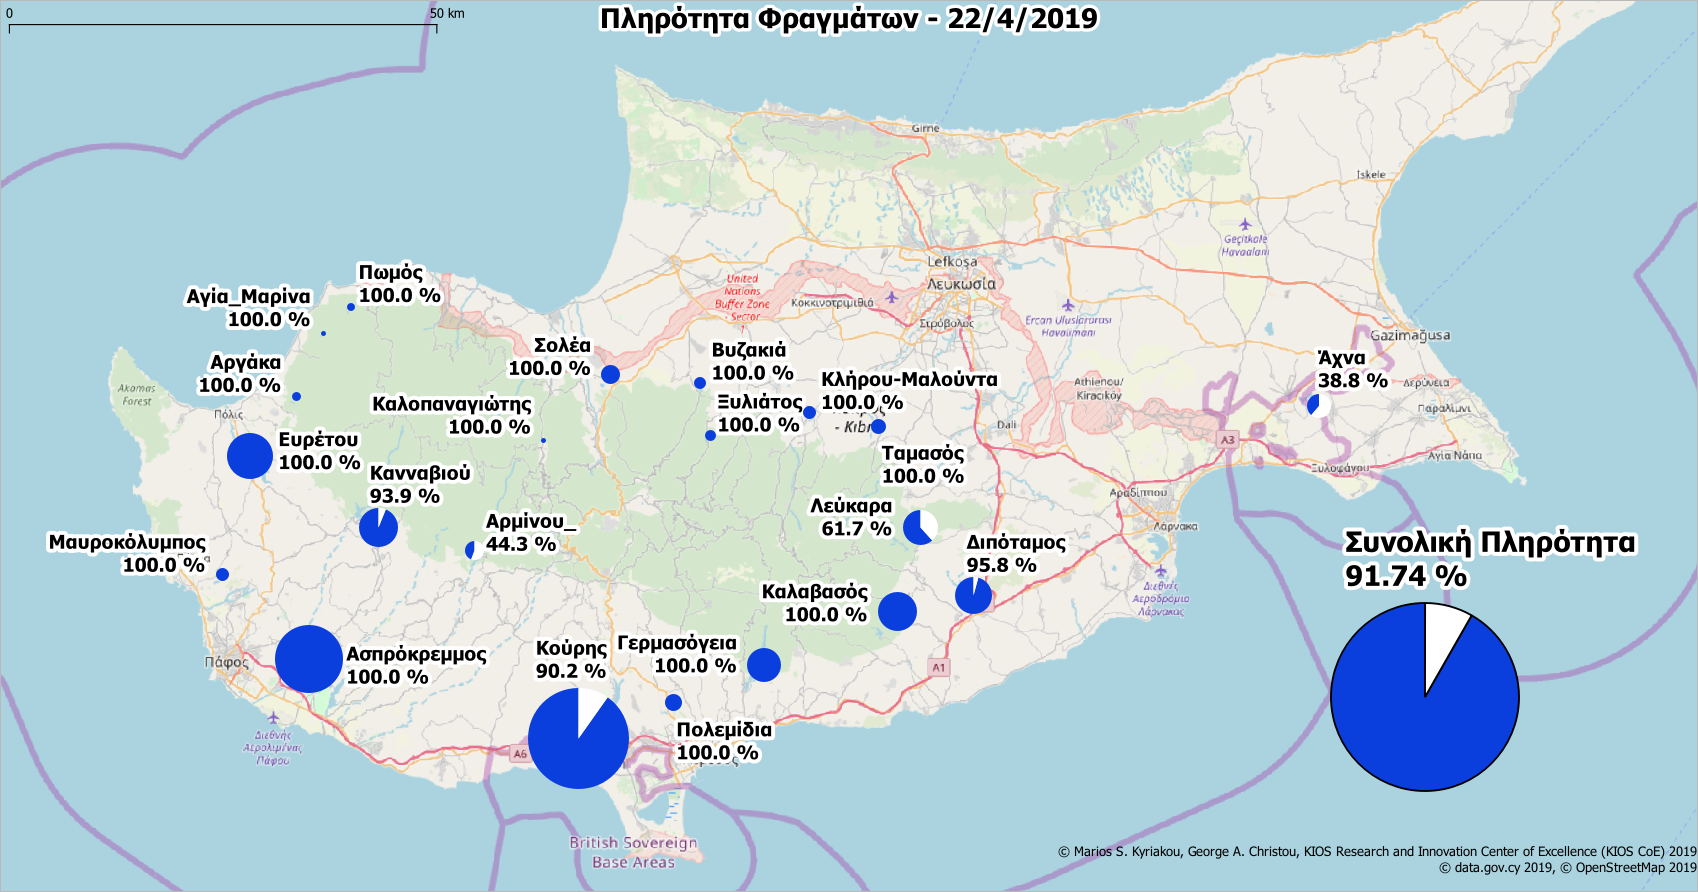
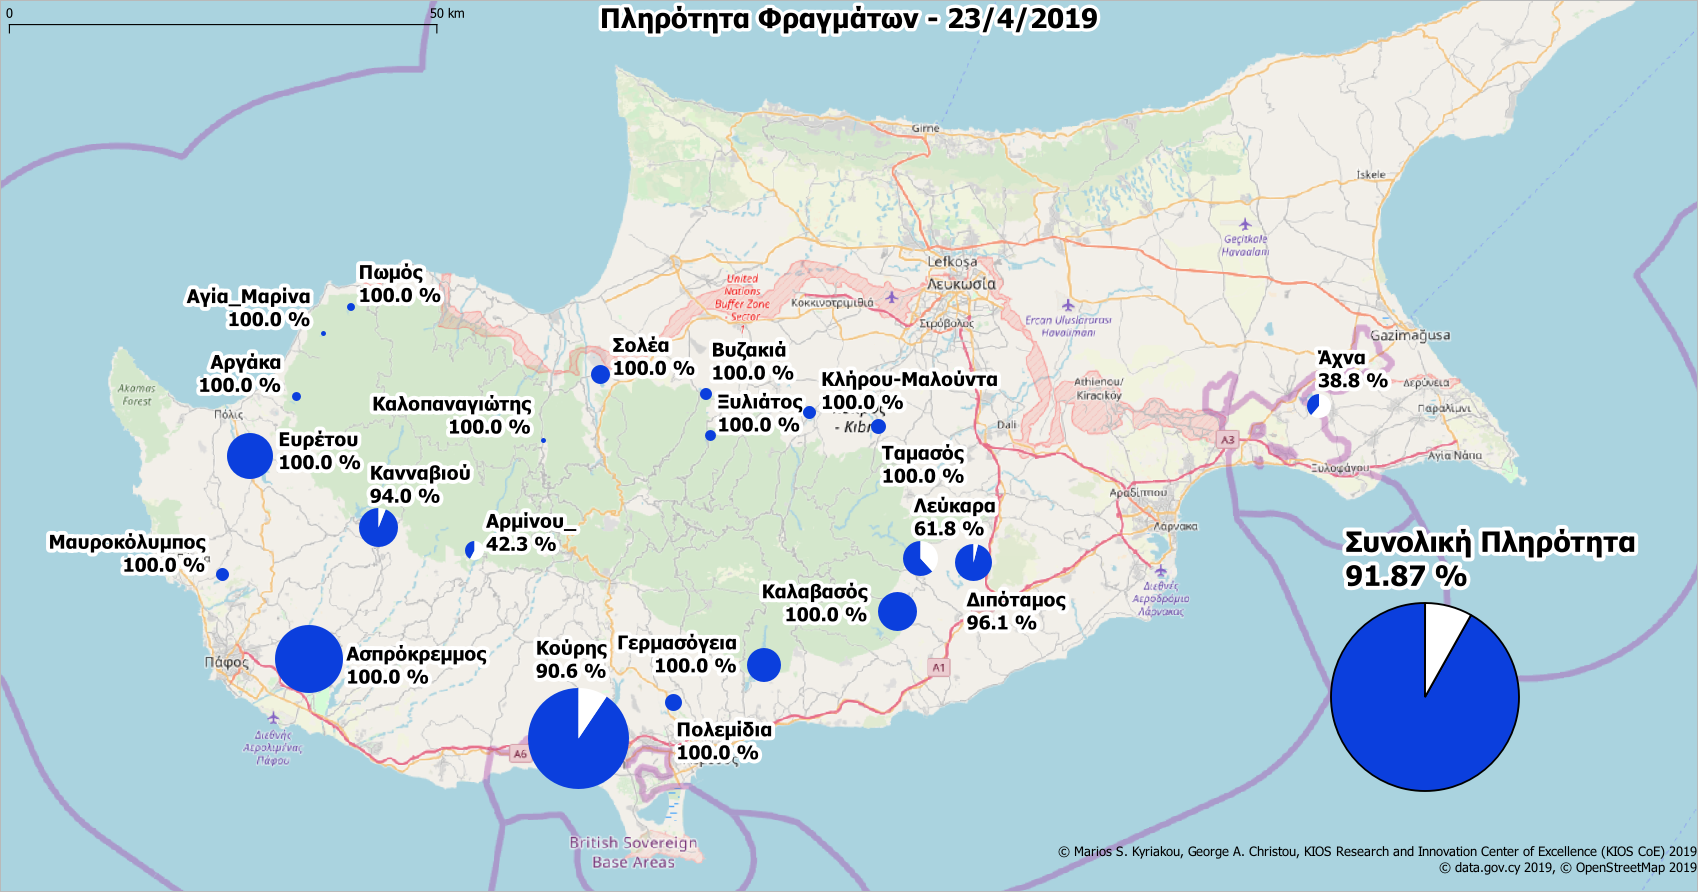
update

diff --git a/dams.html b/dams.html
@@ -11,7 +11,7 @@
          1px  1px 7px WHITE;
     }
     }
-    </style><p><b>Ημερομηνία ανανέωσης δεδομένων: 22/4/2019<p><font color="#0000FF">Η συνολική πληρότητα στα φράγματα είναι 91.74%</font>.<p>Υπάρχουν συνολικά <font color="#0000FF">15</font> φράγματα με πληρότητα <font color="#0000FF">100%</font>.<p>Υπάρχουν <font color="#0000FF">19</font> φράγματα με πληρότητα πάνω από <font color="#0000FF">50%</font>.</b><p><b>Υπάρχουν δεδομένα για 21 φράγματα. Συνολικά υπάρχουν 108 φράγματα. <b><p><p><p>* Ε.Κ.Μ. - Εκατομμύρια Kυβικά  Mέτρα.<table width="444">
+    </style><p><b>Ημερομηνία ανανέωσης δεδομένων: 23/4/2019<p><font color="#0000FF">Η συνολική πληρότητα στα φράγματα είναι 91.87%</font>.<p>Υπάρχουν συνολικά <font color="#0000FF">15</font> φράγματα με πληρότητα <font color="#0000FF">100%</font>.<p>Υπάρχουν <font color="#0000FF">19</font> φράγματα με πληρότητα πάνω από <font color="#0000FF">50%</font>.</b><p><b>Υπάρχουν δεδομένα για 21 φράγματα. Συνολικά υπάρχουν 108 φράγματα. <b><p><p><p>* Ε.Κ.Μ. - Εκατομμύρια Kυβικά  Mέτρα.<table width="444">
     <tbody>
     <tr>
     <th width="2"><b></b></th>
@@ -19,7 +19,7 @@
     <th width="60"><b>Χωρητικότητα (Ε.Κ.Μ.)</b></th>
     <th width="60"><b>Σημερινή (Ε.Κ.Μ.)</b></th>
     <th width="60"><b> Σημερινή Πληρότητα (%)</b></th>
-    </tr><tr><td bgcolor=#1A9641 class=border-white>1</td><td bgcolor=#1A9641 class=border-white>Κούρης</td><td bgcolor=#1A9641 class=border-white>115.0</td><td bgcolor=#1A9641 class=border-white>103.787</td><td bgcolor=#1A9641 class=border-white>90.2</td></tr><tr><tr><td bgcolor=#1A9641 class=border-white>2</td><td bgcolor=#1A9641 class=border-white>Ασπρόκρεμμος</td><td bgcolor=#1A9641 class=border-white>52.375</td><td bgcolor=#1A9641 class=border-white>52.375</td><td bgcolor=#1A9641 class=border-white>100.0</td></tr><tr><tr><td bgcolor=#1A9641 class=border-white>3</td><td bgcolor=#1A9641 class=border-white>Ευρέτου</td><td bgcolor=#1A9641 class=border-white>24.0</td><td bgcolor=#1A9641 class=border-white>24.0</td><td bgcolor=#1A9641 class=border-white>100.0</td></tr><tr><tr><td bgcolor=#1A9641 class=border-white>4</td><td bgcolor=#1A9641 class=border-white>Κανναβιού</td><td bgcolor=#1A9641 class=border-white>17.168</td><td bgcolor=#1A9641 class=border-white>16.115</td><td bgcolor=#1A9641 class=border-white>93.9</td></tr><tr><tr><td bgcolor=#1A9641 class=border-white>5</td><td bgcolor=#1A9641 class=border-white>Καλαβασός</td><td bgcolor=#1A9641 class=border-white>17.1</td><td bgcolor=#1A9641 class=border-white>17.1</td><td bgcolor=#1A9641 class=border-white>100.0</td></tr><tr><tr><td bgcolor=#1A9641 class=border-white>6</td><td bgcolor=#1A9641 class=border-white>Διπόταμος</td><td bgcolor=#1A9641 class=border-white>15.5</td><td bgcolor=#1A9641 class=border-white>14.854</td><td bgcolor=#1A9641 class=border-white>95.8</td></tr><tr><tr><td bgcolor=#A6D96A class=border-white>7</td><td bgcolor=#A6D96A class=border-white>Λεύκαρα</td><td bgcolor=#A6D96A class=border-white>13.85</td><td bgcolor=#A6D96A class=border-white>8.545</td><td bgcolor=#A6D96A class=border-white>61.7</td></tr><tr><tr><td bgcolor=#1A9641 class=border-white>8</td><td bgcolor=#1A9641 class=border-white>Γερμασόγεια</td><td bgcolor=#1A9641 class=border-white>13.5</td><td bgcolor=#1A9641 class=border-white>13.5</td><td bgcolor=#1A9641 class=border-white>100.0</td></tr><tr><tr><td bgcolor=#FED690 class=border-white>9</td><td bgcolor=#FED690 class=border-white>Άχνα</td><td bgcolor=#FED690 class=border-white>6.8</td><td bgcolor=#FED690 class=border-white>2.641</td><td bgcolor=#FED690 class=border-white>38.8</td></tr><tr><tr><td bgcolor=#1A9641 class=border-white>10</td><td bgcolor=#1A9641 class=border-white>Σολέα</td><td bgcolor=#1A9641 class=border-white>4.454</td><td bgcolor=#1A9641 class=border-white>4.454</td><td bgcolor=#1A9641 class=border-white>100.0</td></tr><tr><tr><td bgcolor=#FFFFC0 class=border-white>11</td><td bgcolor=#FFFFC0 class=border-white>Αρμίνου_</td><td bgcolor=#FFFFC0 class=border-white>4.3</td><td bgcolor=#FFFFC0 class=border-white>1.903</td><td bgcolor=#FFFFC0 class=border-white>44.3</td></tr><tr><tr><td bgcolor=#1A9641 class=border-white>12</td><td bgcolor=#1A9641 class=border-white>Πολεμίδια</td><td bgcolor=#1A9641 class=border-white>3.4</td><td bgcolor=#1A9641 class=border-white>3.4</td><td bgcolor=#1A9641 class=border-white>100.0</td></tr><tr><tr><td bgcolor=#1A9641 class=border-white>13</td><td bgcolor=#1A9641 class=border-white>Ταμασός</td><td bgcolor=#1A9641 class=border-white>2.8</td><td bgcolor=#1A9641 class=border-white>2.8</td><td bgcolor=#1A9641 class=border-white>100.0</td></tr><tr><tr><td bgcolor=#1A9641 class=border-white>14</td><td bgcolor=#1A9641 class=border-white>Μαυροκόλυμπος</td><td bgcolor=#1A9641 class=border-white>2.18</td><td bgcolor=#1A9641 class=border-white>2.18</td><td bgcolor=#1A9641 class=border-white>100.0</td></tr><tr><tr><td bgcolor=#1A9641 class=border-white>15</td><td bgcolor=#1A9641 class=border-white>Κλήρου-Μαλούντα</td><td bgcolor=#1A9641 class=border-white>2.0</td><td bgcolor=#1A9641 class=border-white>2.0</td><td bgcolor=#1A9641 class=border-white>100.0</td></tr><tr><tr><td bgcolor=#1A9641 class=border-white>16</td><td bgcolor=#1A9641 class=border-white>Βυζακιά</td><td bgcolor=#1A9641 class=border-white>1.69</td><td bgcolor=#1A9641 class=border-white>1.69</td><td bgcolor=#1A9641 class=border-white>100.0</td></tr><tr><tr><td bgcolor=#1A9641 class=border-white>17</td><td bgcolor=#1A9641 class=border-white>Ξυλιάτος</td><td bgcolor=#1A9641 class=border-white>1.43</td><td bgcolor=#1A9641 class=border-white>1.43</td><td bgcolor=#1A9641 class=border-white>100.0</td></tr><tr><tr><td bgcolor=#1A9641 class=border-white>18</td><td bgcolor=#1A9641 class=border-white>Αργάκα</td><td bgcolor=#1A9641 class=border-white>0.99</td><td bgcolor=#1A9641 class=border-white>0.99</td><td bgcolor=#1A9641 class=border-white>100.0</td></tr><tr><tr><td bgcolor=#1A9641 class=border-white>19</td><td bgcolor=#1A9641 class=border-white>Πωμός</td><td bgcolor=#1A9641 class=border-white>0.86</td><td bgcolor=#1A9641 class=border-white>0.86</td><td bgcolor=#1A9641 class=border-white>100.0</td></tr><tr><tr><td bgcolor=#1A9641 class=border-white>20</td><td bgcolor=#1A9641 class=border-white>Καλοπαναγιώτης</td><td bgcolor=#1A9641 class=border-white>0.363</td><td bgcolor=#1A9641 class=border-white>0.363</td><td bgcolor=#1A9641 class=border-white>100.0</td></tr><tr><tr><td bgcolor=#1A9641 class=border-white>21</td><td bgcolor=#1A9641 class=border-white>Αγία_Μαρίνα</td><td bgcolor=#1A9641 class=border-white>0.298</td><td bgcolor=#1A9641 class=border-white>0.298</td><td bgcolor=#1A9641 class=border-white>100.0</td></tr><tr>
+    </tr><tr><td bgcolor=#1A9641 class=border-white>1</td><td bgcolor=#1A9641 class=border-white>Κούρης</td><td bgcolor=#1A9641 class=border-white>115.0</td><td bgcolor=#1A9641 class=border-white>104.161</td><td bgcolor=#1A9641 class=border-white>90.6</td></tr><tr><tr><td bgcolor=#1A9641 class=border-white>2</td><td bgcolor=#1A9641 class=border-white>Ασπρόκρεμμος</td><td bgcolor=#1A9641 class=border-white>52.375</td><td bgcolor=#1A9641 class=border-white>52.375</td><td bgcolor=#1A9641 class=border-white>100.0</td></tr><tr><tr><td bgcolor=#1A9641 class=border-white>3</td><td bgcolor=#1A9641 class=border-white>Ευρέτου</td><td bgcolor=#1A9641 class=border-white>24.0</td><td bgcolor=#1A9641 class=border-white>24.0</td><td bgcolor=#1A9641 class=border-white>100.0</td></tr><tr><tr><td bgcolor=#1A9641 class=border-white>4</td><td bgcolor=#1A9641 class=border-white>Κανναβιού</td><td bgcolor=#1A9641 class=border-white>17.168</td><td bgcolor=#1A9641 class=border-white>16.143</td><td bgcolor=#1A9641 class=border-white>94.0</td></tr><tr><tr><td bgcolor=#1A9641 class=border-white>5</td><td bgcolor=#1A9641 class=border-white>Καλαβασός</td><td bgcolor=#1A9641 class=border-white>17.1</td><td bgcolor=#1A9641 class=border-white>17.1</td><td bgcolor=#1A9641 class=border-white>100.0</td></tr><tr><tr><td bgcolor=#1A9641 class=border-white>6</td><td bgcolor=#1A9641 class=border-white>Διπόταμος</td><td bgcolor=#1A9641 class=border-white>15.5</td><td bgcolor=#1A9641 class=border-white>14.903</td><td bgcolor=#1A9641 class=border-white>96.1</td></tr><tr><tr><td bgcolor=#A6D96A class=border-white>7</td><td bgcolor=#A6D96A class=border-white>Λεύκαρα</td><td bgcolor=#A6D96A class=border-white>13.85</td><td bgcolor=#A6D96A class=border-white>8.564</td><td bgcolor=#A6D96A class=border-white>61.8</td></tr><tr><tr><td bgcolor=#1A9641 class=border-white>8</td><td bgcolor=#1A9641 class=border-white>Γερμασόγεια</td><td bgcolor=#1A9641 class=border-white>13.5</td><td bgcolor=#1A9641 class=border-white>13.5</td><td bgcolor=#1A9641 class=border-white>100.0</td></tr><tr><tr><td bgcolor=#FED690 class=border-white>9</td><td bgcolor=#FED690 class=border-white>Άχνα</td><td bgcolor=#FED690 class=border-white>6.8</td><td bgcolor=#FED690 class=border-white>2.641</td><td bgcolor=#FED690 class=border-white>38.8</td></tr><tr><tr><td bgcolor=#1A9641 class=border-white>10</td><td bgcolor=#1A9641 class=border-white>Σολέα</td><td bgcolor=#1A9641 class=border-white>4.454</td><td bgcolor=#1A9641 class=border-white>4.454</td><td bgcolor=#1A9641 class=border-white>100.0</td></tr><tr><tr><td bgcolor=#FFFFC0 class=border-white>11</td><td bgcolor=#FFFFC0 class=border-white>Αρμίνου_</td><td bgcolor=#FFFFC0 class=border-white>4.3</td><td bgcolor=#FFFFC0 class=border-white>1.817</td><td bgcolor=#FFFFC0 class=border-white>42.3</td></tr><tr><tr><td bgcolor=#1A9641 class=border-white>12</td><td bgcolor=#1A9641 class=border-white>Πολεμίδια</td><td bgcolor=#1A9641 class=border-white>3.4</td><td bgcolor=#1A9641 class=border-white>3.4</td><td bgcolor=#1A9641 class=border-white>100.0</td></tr><tr><tr><td bgcolor=#1A9641 class=border-white>13</td><td bgcolor=#1A9641 class=border-white>Ταμασός</td><td bgcolor=#1A9641 class=border-white>2.8</td><td bgcolor=#1A9641 class=border-white>2.8</td><td bgcolor=#1A9641 class=border-white>100.0</td></tr><tr><tr><td bgcolor=#1A9641 class=border-white>14</td><td bgcolor=#1A9641 class=border-white>Μαυροκόλυμπος</td><td bgcolor=#1A9641 class=border-white>2.18</td><td bgcolor=#1A9641 class=border-white>2.18</td><td bgcolor=#1A9641 class=border-white>100.0</td></tr><tr><tr><td bgcolor=#1A9641 class=border-white>15</td><td bgcolor=#1A9641 class=border-white>Κλήρου-Μαλούντα</td><td bgcolor=#1A9641 class=border-white>2.0</td><td bgcolor=#1A9641 class=border-white>2.0</td><td bgcolor=#1A9641 class=border-white>100.0</td></tr><tr><tr><td bgcolor=#1A9641 class=border-white>16</td><td bgcolor=#1A9641 class=border-white>Βυζακιά</td><td bgcolor=#1A9641 class=border-white>1.69</td><td bgcolor=#1A9641 class=border-white>1.69</td><td bgcolor=#1A9641 class=border-white>100.0</td></tr><tr><tr><td bgcolor=#1A9641 class=border-white>17</td><td bgcolor=#1A9641 class=border-white>Ξυλιάτος</td><td bgcolor=#1A9641 class=border-white>1.43</td><td bgcolor=#1A9641 class=border-white>1.43</td><td bgcolor=#1A9641 class=border-white>100.0</td></tr><tr><tr><td bgcolor=#1A9641 class=border-white>18</td><td bgcolor=#1A9641 class=border-white>Αργάκα</td><td bgcolor=#1A9641 class=border-white>0.99</td><td bgcolor=#1A9641 class=border-white>0.99</td><td bgcolor=#1A9641 class=border-white>100.0</td></tr><tr><tr><td bgcolor=#1A9641 class=border-white>19</td><td bgcolor=#1A9641 class=border-white>Πωμός</td><td bgcolor=#1A9641 class=border-white>0.86</td><td bgcolor=#1A9641 class=border-white>0.86</td><td bgcolor=#1A9641 class=border-white>100.0</td></tr><tr><tr><td bgcolor=#1A9641 class=border-white>20</td><td bgcolor=#1A9641 class=border-white>Καλοπαναγιώτης</td><td bgcolor=#1A9641 class=border-white>0.363</td><td bgcolor=#1A9641 class=border-white>0.363</td><td bgcolor=#1A9641 class=border-white>100.0</td></tr><tr><tr><td bgcolor=#1A9641 class=border-white>21</td><td bgcolor=#1A9641 class=border-white>Αγία_Μαρίνα</td><td bgcolor=#1A9641 class=border-white>0.298</td><td bgcolor=#1A9641 class=border-white>0.298</td><td bgcolor=#1A9641 class=border-white>100.0</td></tr><tr>
     </tr>
     <tr>
     <td></td>
